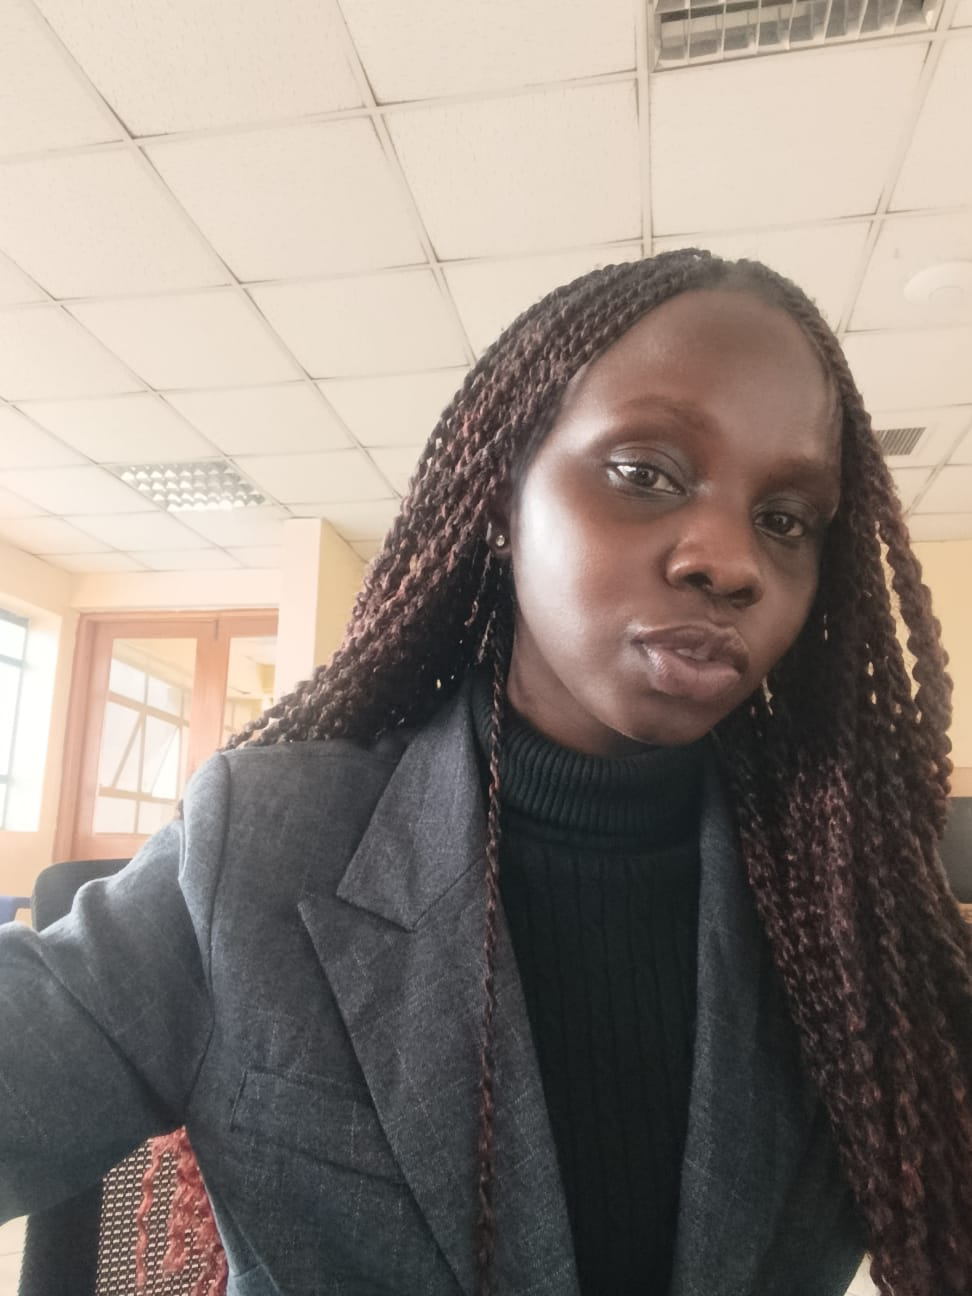
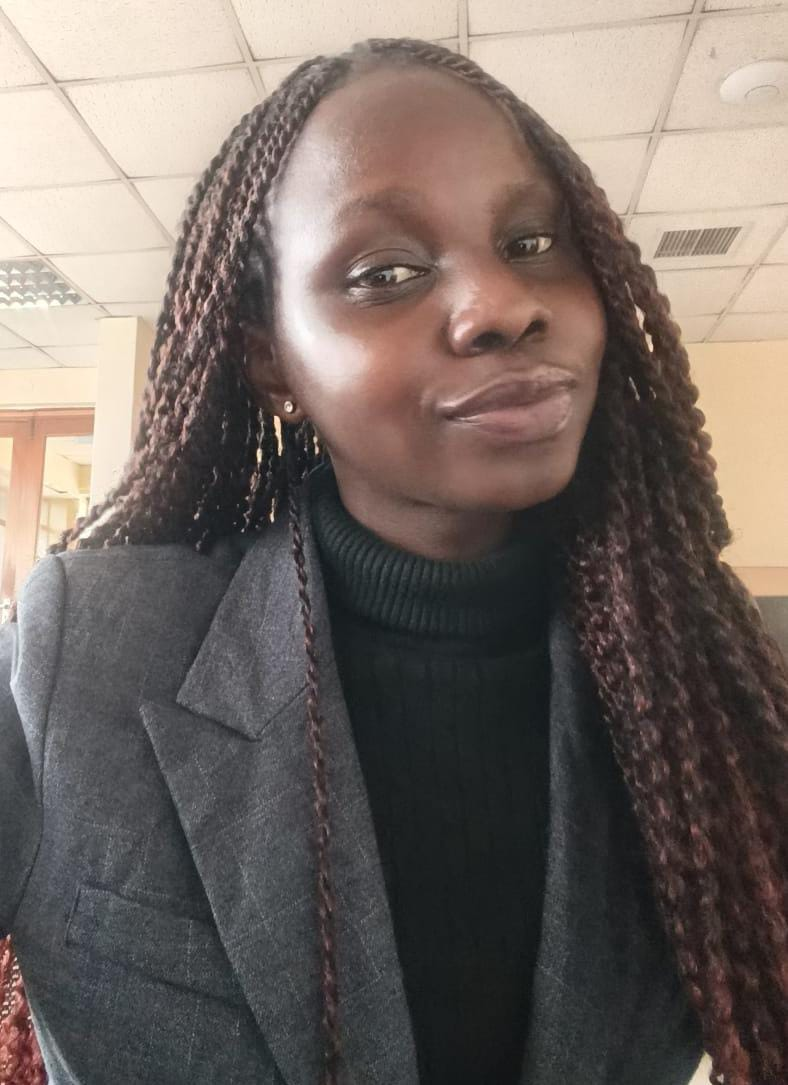
Phase 1: Update styles, add Inter font, update contact form placeholders, and fix Portal import error

diff --git a/src/index.css b/src/index.css
@@ -1,12 +1,21 @@
 :root {
   --ms-blue: #0067b8;
   --ms-blue-hover: #005da6;
-  --ms-black: #000000;
-  --ms-dark-gray: #242424;
+  --ms-black: #0f1115; /* Deeper black for Stripe feel */
+  --ms-dark-gray: #333333;
   --ms-mid-gray: #616161;
   --ms-light-gray: #f2f2f2;
   --ms-white: #ffffff;
-  --font-family: "Segoe UI", SegoeUI, "Helvetica Neue", Helvetica, Arial, sans-serif;
+  --font-family: 'Inter', -apple-system, BlinkMacSystemFont, "Segoe UI", Roboto, Helvetica, Arial, sans-serif;
+  
+  /* New Animation & Layout Tokens */
+  --ease-spring: cubic-bezier(0.175, 0.885, 0.32, 1.275);
+  --ease-out: cubic-bezier(0.4, 0, 0.2, 1);
+  --shadow-sm: 0 1px 2px 0 rgba(0, 0, 0, 0.05);
+  --shadow-md: 0 4px 6px -1px rgba(0, 0, 0, 0.1), 0 2px 4px -1px rgba(0, 0, 0, 0.06);
+  --shadow-lg: 0 10px 15px -3px rgba(0, 0, 0, 0.1), 0 4px 6px -2px rgba(0, 0, 0, 0.05);
+  --radius-md: 8px;
+  --radius-lg: 12px;
 }
 
 * {
@@ -159,23 +168,27 @@ a:hover {
 /* Buttons */
 .ms-btn {
   display: inline-block;
-  padding: 10px 12px;
-  font-size: 1rem;
+  padding: 10px 16px;
+  font-size: 0.95rem;
   font-weight: 600;
-  border-radius: 2px;
+  border-radius: var(--radius-md);
   cursor: pointer;
-  border: 2px solid transparent;
+  border: 1px solid transparent;
+  transition: all 0.2s var(--ease-out);
+  box-shadow: var(--shadow-sm);
 }
 
 .ms-btn-primary {
-  background-color: var(--ms-blue);
+  background-color: var(--ms-black);
   color: var(--ms-white);
 }
 
 .ms-btn-primary:hover {
-  background-color: var(--ms-blue-hover);
-  text-decoration: none;
+  background-color: #000000;
+  transform: translateY(-1px);
+  box-shadow: var(--shadow-md);
   color: var(--ms-white);
+  text-decoration: none;
 }
 
 /* Hero Section */
@@ -333,6 +346,15 @@ video.ms-hero-img {
 .ms-card {
   display: flex;
   flex-direction: column;
+  transition: all 0.3s var(--ease-out);
+  border-radius: var(--radius-lg);
+  overflow: hidden;
+  background-color: var(--ms-white);
+}
+
+.ms-card:hover {
+  transform: translateY(-4px);
+  box-shadow: var(--shadow-lg);
 }
 
 .ms-card-img {
@@ -341,6 +363,11 @@ video.ms-hero-img {
   aspect-ratio: 16/9;
   object-fit: cover;
   object-position: center;
+  transition: transform 0.5s var(--ease-out);
+}
+
+.ms-card:hover .ms-card-img {
+  transform: scale(1.03);
 }
 
 /* Portrait images for team members — taller and anchored to top so faces show */

diff --git a/src/pages/Contact.jsx b/src/pages/Contact.jsx
@@ -71,21 +71,21 @@ export default function Contact() {
             <div className="form-row">
               <div className="form-group">
                 <label htmlFor="name">Full Name *</label>
-                <input id="name" name="name" type="text" placeholder="e.g. Jane Mwangi" required />
+                <input id="name" name="name" type="text" required />
               </div>
               <div className="form-group">
                 <label htmlFor="org">Organisation / Company *</label>
-                <input id="org" name="org" type="text" placeholder="e.g. Nairobi Academy" required />
+                <input id="org" name="org" type="text" required />
               </div>
             </div>
             <div className="form-row">
               <div className="form-group">
                 <label htmlFor="email">Email Address *</label>
-                <input id="email" name="email" type="email" placeholder="you@example.com" required />
+                <input id="email" name="email" type="email" required />
               </div>
               <div className="form-group">
                 <label htmlFor="phone">Phone Number</label>
-                <input id="phone" name="phone" type="tel" placeholder="+254 7XX XXX XXX" />
+                <input id="phone" name="phone" type="tel" />
               </div>
             </div>
             <div className="form-group">

diff --git a/index.html b/index.html
@@ -4,7 +4,10 @@
     <meta charset="UTF-8" />
     <link rel="icon" type="image/svg+xml" href="/favicon.svg" />
     <meta name="viewport" content="width=device-width, initial-scale=1.0" />
-    <title>solianwolves-website</title>
+    <link rel="preconnect" href="https://fonts.googleapis.com">
+    <link rel="preconnect" href="https://fonts.gstatic.com" crossorigin>
+    <link href="https://fonts.googleapis.com/css2?family=Inter:wght@300;400;500;600;700;800&display=swap" rel="stylesheet">
+    <title>Solian Wolves | Elite Systems</title>
   </head>
   <body>
     <div id="root"></div>

diff --git a/src/pages/Portal.jsx b/src/pages/Portal.jsx
@@ -2,6 +2,7 @@ import React, { useState } from 'react';
 import { Link, useNavigate } from 'react-router-dom';
 import { signInWithEmailAndPassword } from 'firebase/auth';
 import { auth } from '../lib/firebase';
+import PageNav from '../components/PageNav.jsx';
 import '../pages.css';
 
 export default function Portal() {
